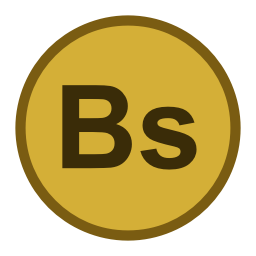
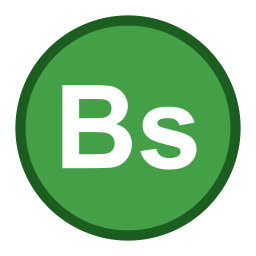
feat: icono de la app en verde

diff --git a/src/app/recursos.py b/src/app/recursos.py
@@ -30,15 +30,15 @@ def dibujar_icono(tam: int = 256) -> QPixmap:
     margen = tam * 0.08
     circulo = QRectF(margen, margen, tam - 2 * margen, tam - 2 * margen)
 
-    # Moneda: relleno dorado con borde más oscuro.
-    painter.setBrush(QBrush(QColor("#D4AF37")))
-    painter.setPen(QPen(QColor("#7A5C12"), tam * 0.04))
+    # Moneda: relleno verde con borde más oscuro.
+    painter.setBrush(QBrush(QColor("#43A047")))
+    painter.setPen(QPen(QColor("#1B5E20"), tam * 0.04))
     painter.drawEllipse(circulo)
 
     # Texto 'Bs' centrado.
     fuente = QFont("Arial", int(tam * 0.34), QFont.Weight.Bold)
     painter.setFont(fuente)
-    painter.setPen(QPen(QColor("#3A2C08")))
+    painter.setPen(QPen(QColor("#FFFFFF")))
     painter.drawText(circulo, Qt.AlignmentFlag.AlignCenter, "Bs")
 
     painter.end()
